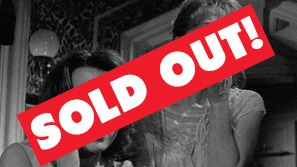
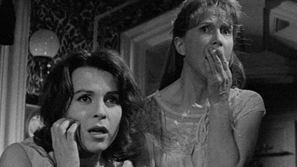
De-feature schocktober

diff --git a/_layouts/home.html b/_layouts/home.html
@@ -94,9 +94,15 @@ layout: default
   					          <h2>
   					            <a class="post-link" href="{{ event.url | relative_url }}">{{ event.title | escape }}</a>
   					          </h2>
-					          <span class="post-meta">{% assign day = event.showdate | date: "%-d"  %}
-								{{ event.showdate | date: "%-d" }}<sup>{% case day %}{% when '1' or '21' or '31' %}st{% when '2' or '22' %}nd{% when '3' or '23' %}rd{% else %}th{% endcase %}</sup>
-								{{ event.showdate | date: "%B %Y" }}</span>
+					          <span class="post-meta">
+								  {% if event.displaydate %}
+									  {{ event.displaydate }}
+								  {% else %}
+									  {% assign day = event.showdate | date: "%-d"  %}
+									{{ event.showdate | date: "%-d" }}<sup>{% case day %}{% when '1' or '21' or '31' %}st{% when '2' or '22' %}nd{% when '3' or '23' %}rd{% else %}th{% endcase %}</sup>
+									{{ event.showdate | date: "%B %Y" }}
+						  	  	{% endif %}
+							</span>
 							  </div>
 							  </div>
 

diff --git a/shocktober.html b/shocktober.html
@@ -56,11 +56,7 @@ title: "Shocktober Festival by Cinema Under The Stairs"
 <p> {{ event.subtext}}</p>
 	{{ event.content }}</div>
 
-{% if event.booking_link %}
-<div class="mbr-buttons btn-inverse mbr-buttons--left"><a class="mbr-buttons__btn btn btn-lg btn-danger" href="{{ event.booking_link }}" target="_blank">GET TICKETS</a></div>
-{% else %}
-<div class="mbr-buttons btn-inverse mbr-buttons--left"><a class="mbr-buttons__btn btn btn-lg btn-danger" href="" target="_blank">SOLD OUT!</a></div>
-{% endif %}
+
 					</div>
 			</div>
 {% endfor %}
@@ -77,7 +73,7 @@ title: "Shocktober Festival by Cinema Under The Stairs"
 						 <div class="desc">
 							 <p>							 Personalised A3 certificate to whoever survives all 6 movies in the festival!
 </p></div>
-<div class="mbr-buttons btn-inverse mbr-buttons--left"><a class="mbr-buttons__btn btn btn-lg btn-danger" href="http://www.wegottickets.com/event/482699" target="_blank">BUY FESTIVAL PASS</a></div>
+
 
 					</div>
 				</div>

diff --git a/_layouts/shocktober.html b/_layouts/shocktober.html
@@ -1,0 +1,11 @@
+<!DOCTYPE html>
+<html lang="en-US">
+  <meta charset="utf-8">
+  <title>Redirecting&hellip;</title>
+  <link rel="canonical" href="/shocktober.html">
+  <script>location="/shocktober.html"</script>
+  <meta http-equiv="refresh" content="0; url=/shocktober.html">
+  <meta name="robots" content="noindex">
+  <h1>Redirecting&hellip;</h1>
+  <a href="/shocktober.html">Click here if you are not redirected.</a>
+</html>

diff --git a/_events/shocktober.md b/_events/shocktober.md
@@ -1,0 +1,7 @@
+---
+title: "Shocktober festival"
+showdate: 2019-10-31
+displaydate: "20<sup>th</sup> - 28<sup>th</sup> October 2019"
+poster_thumb: /assets/posters/hitcher.jpg
+layout: shocktober
+---
